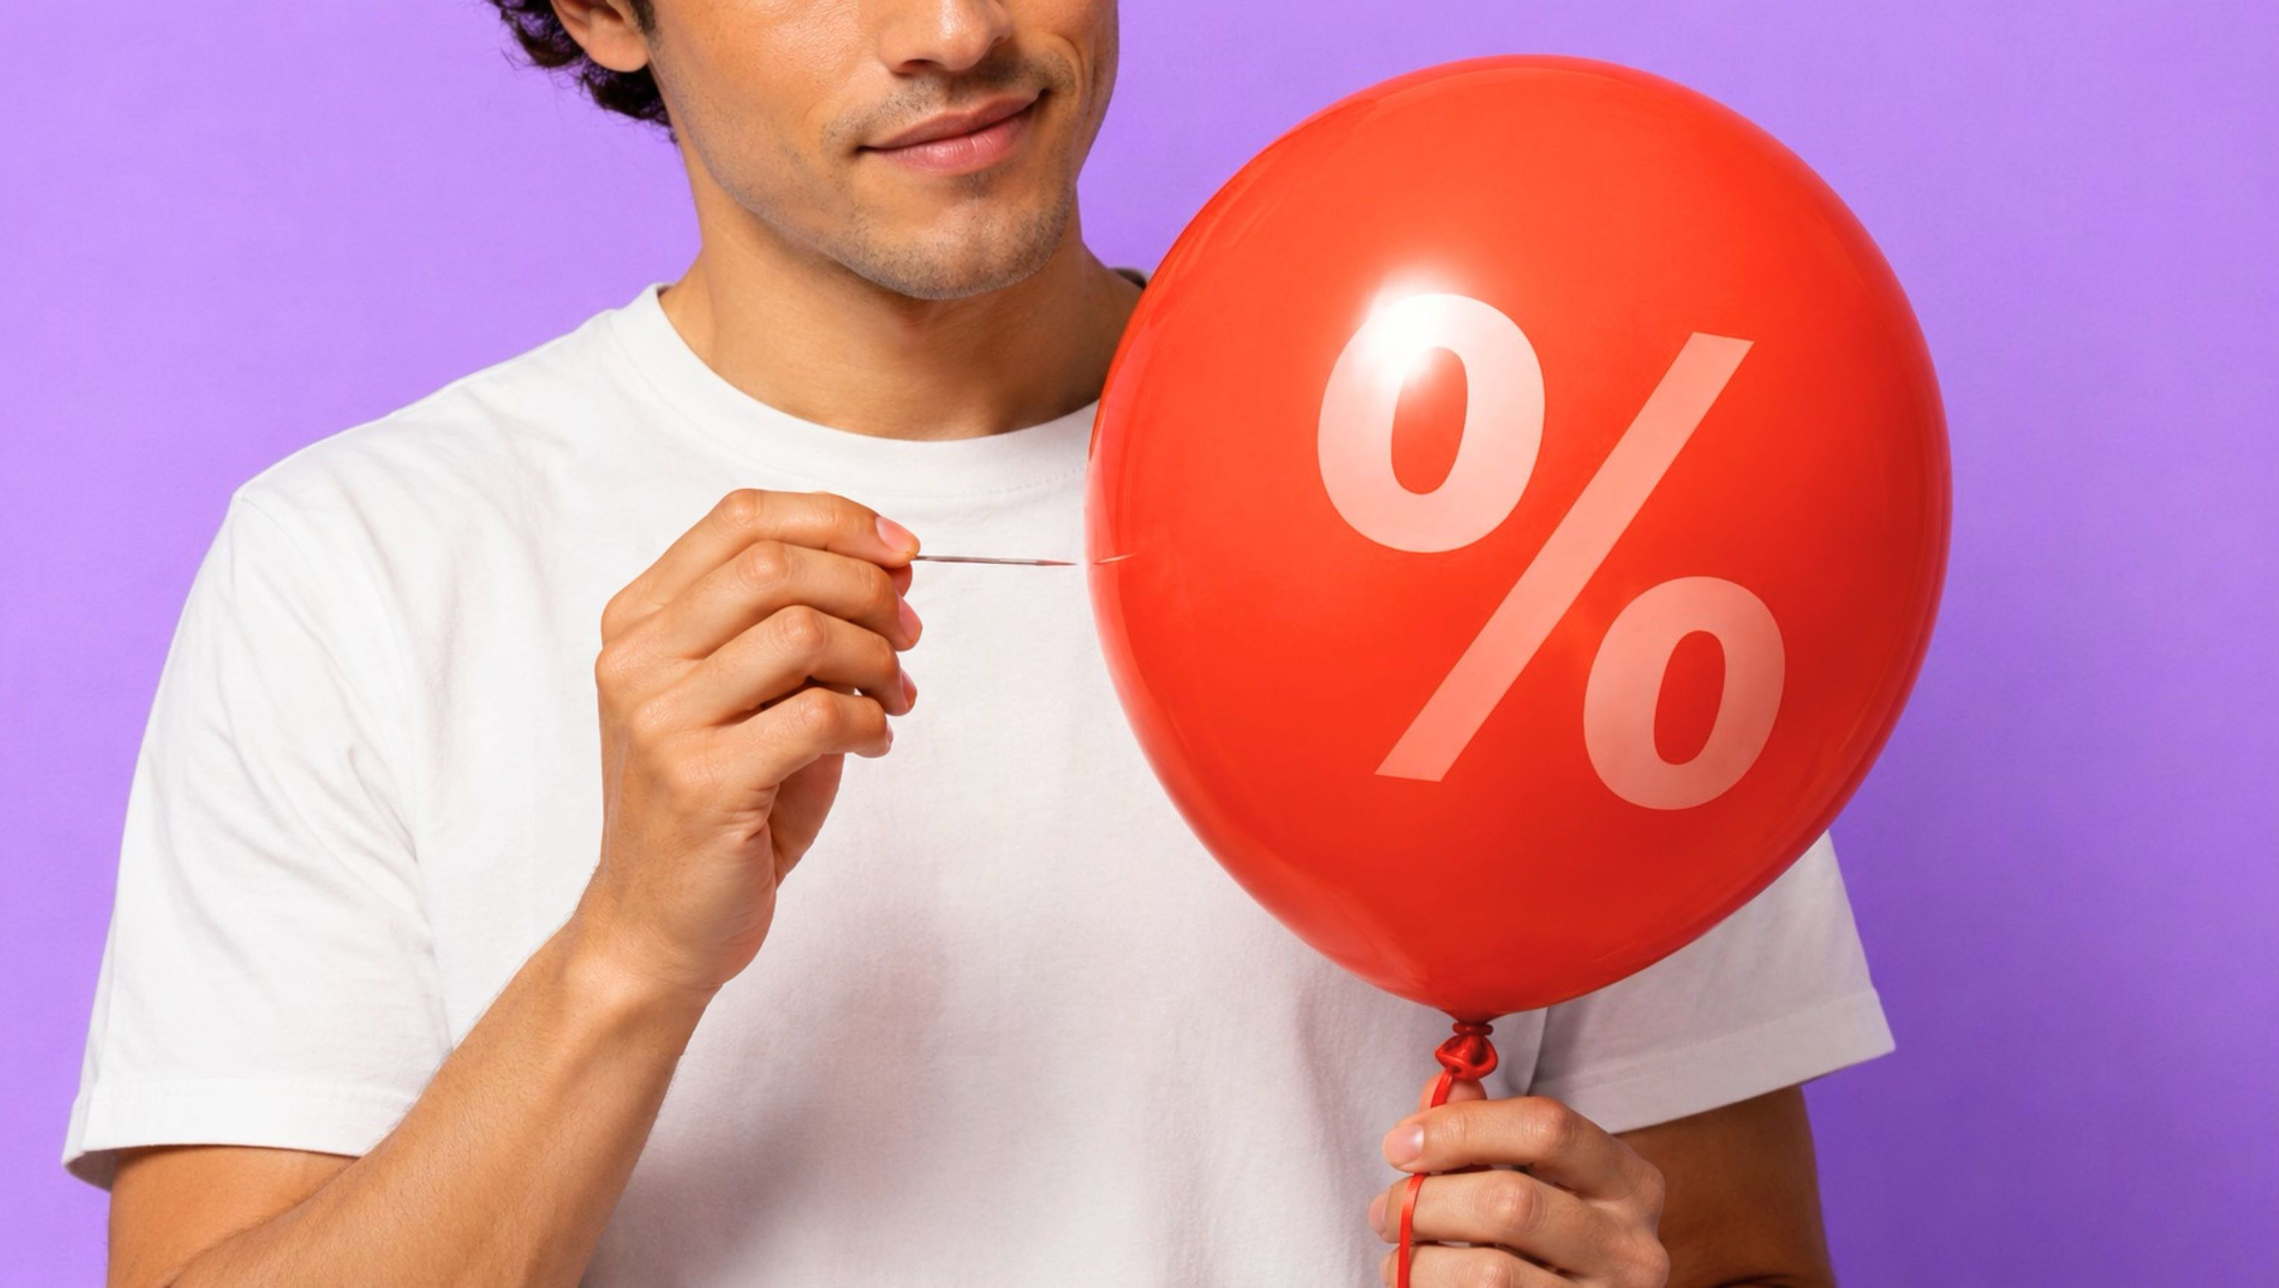
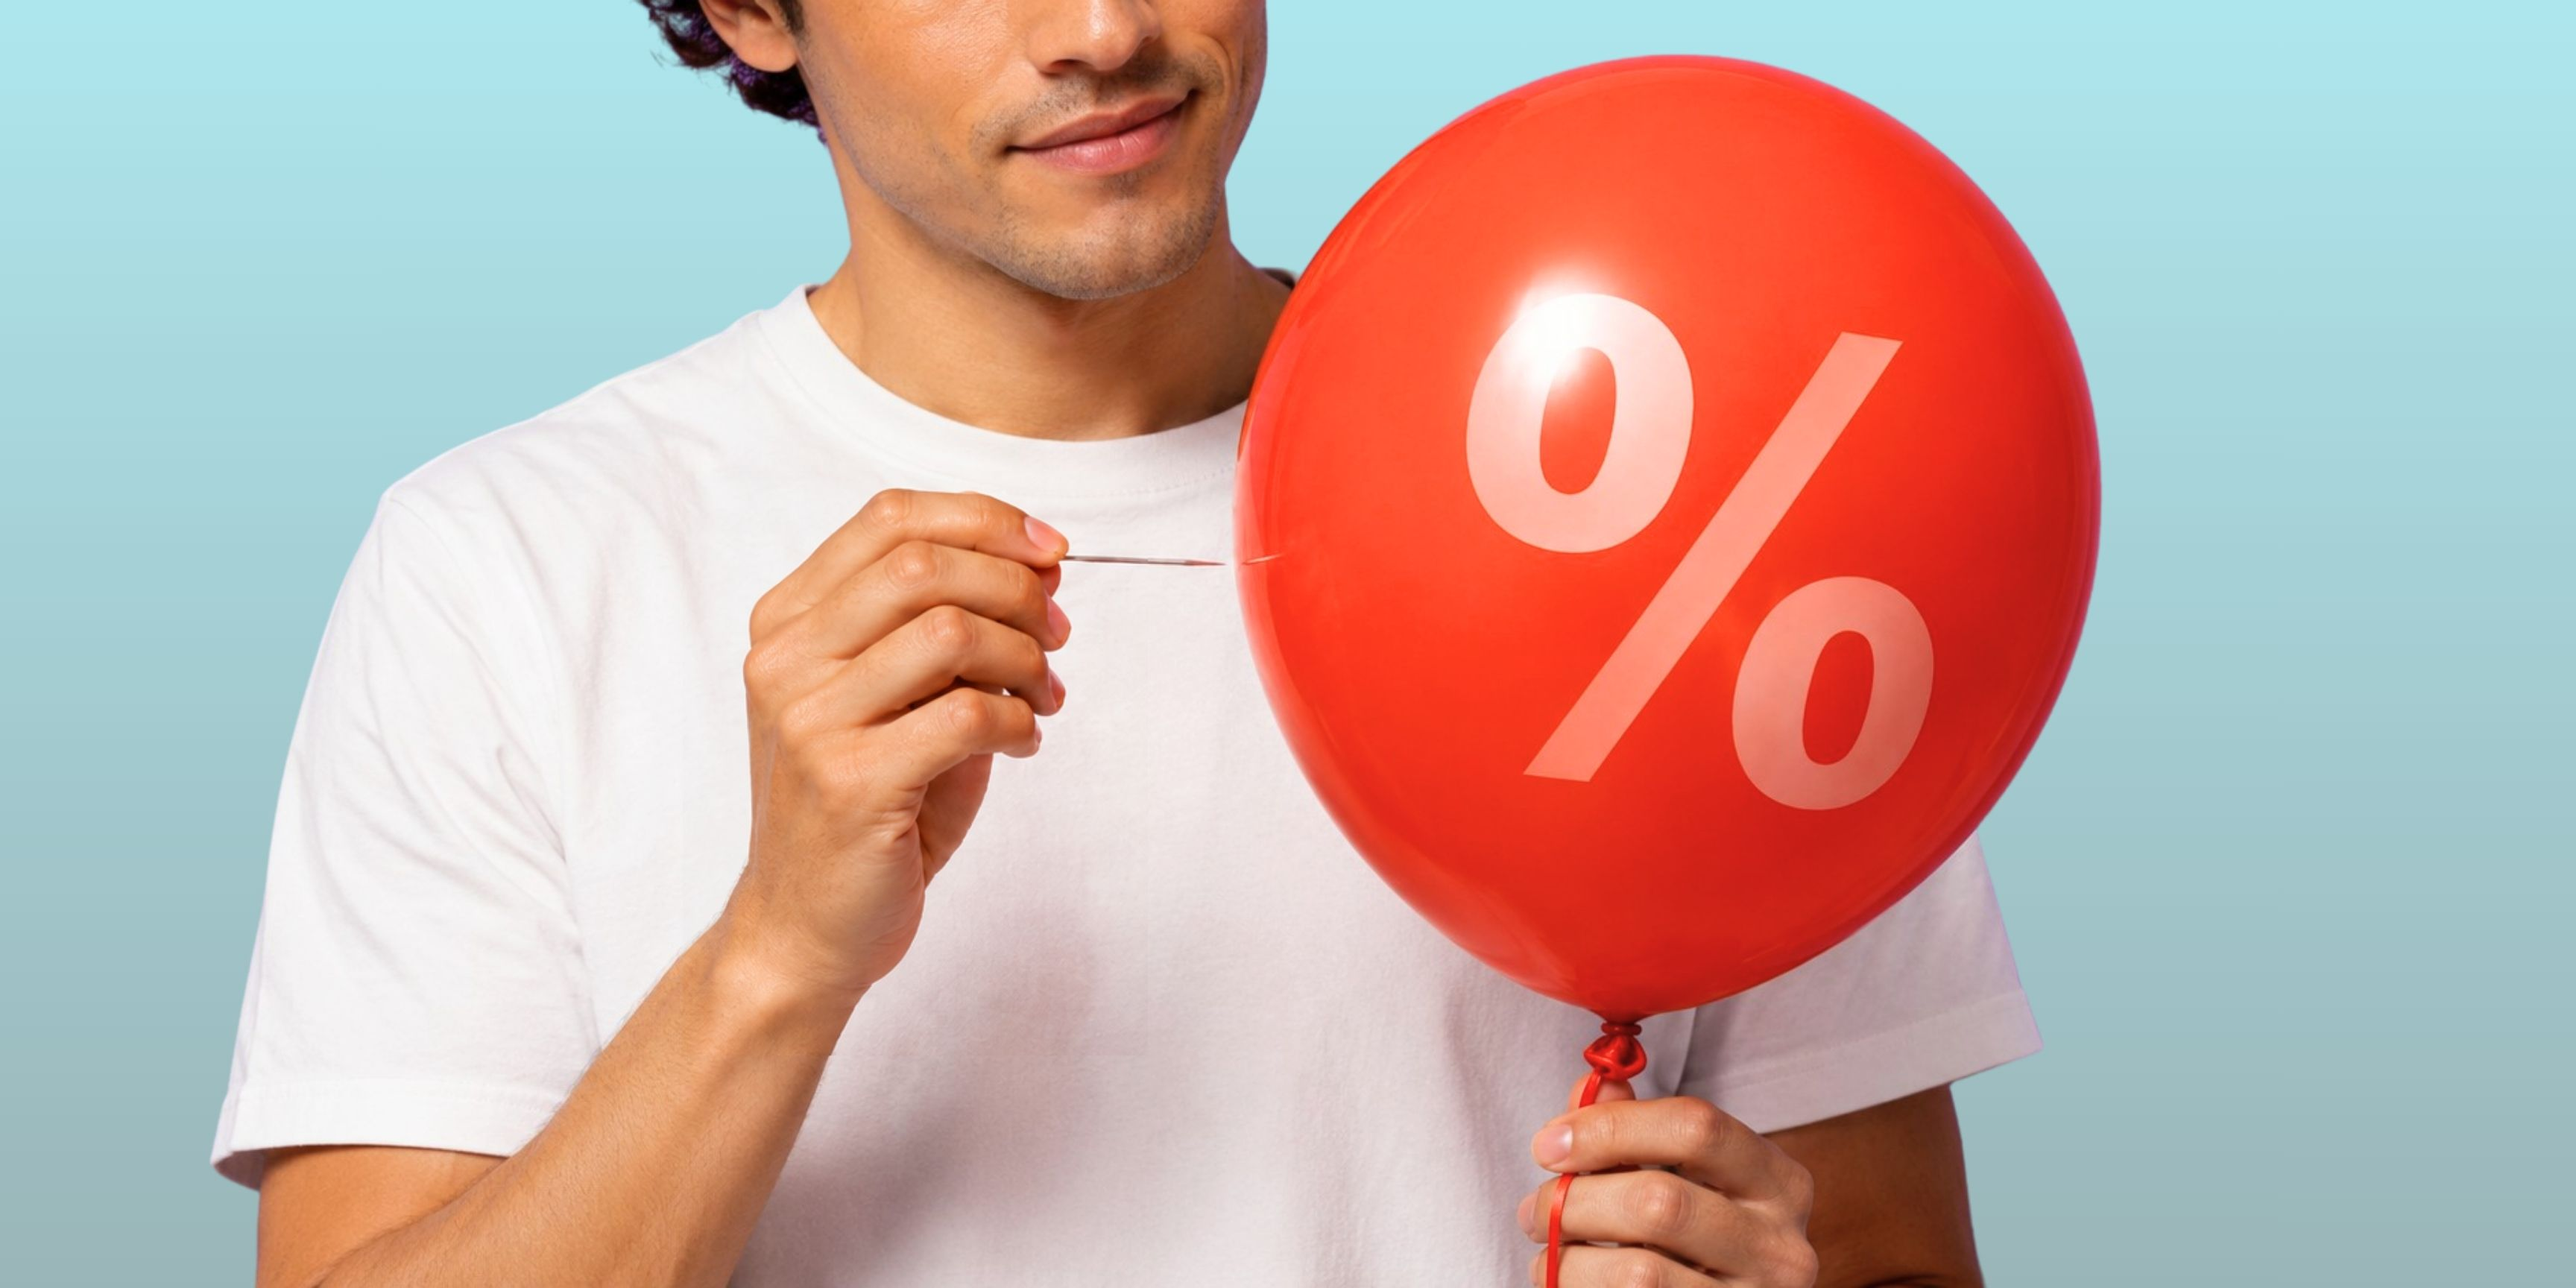
New hero collage photos + swap reasons #2 and #4
- Replaced all six hero collage photos and reasons images 2 & 4 with
  new assets (content overwrite at existing public paths; markup,
  sizes, and layout untouched).

diff --git a/LOGBOOK.md b/LOGBOOK.md
@@ -19,6 +19,22 @@ A running record of every change made to this project, in order. Each entry note
 
 ## Changes
 
+### 2026-06-22 — Reasons section: swap 2nd & 4th photos (requested)
+
+- Replaced the 2nd (`i2` → `public/Reasons2.jpg`) and 4th (`i4` → `public/Reasons4.jpg`) reasons-section images with new files from `~/Downloads/KP Reasons/` (already named `Reasons2.jpg` / `Reasons4.jpg`). Content overwrite at existing paths — no markup, `sizes`, or order changes. Slots 1 and 3 untouched. Old images recoverable from git.
+
+### 2026-06-22 — New hero collage photos (requested)
+
+- Replaced the six hero collage photos with new images from `~/Downloads/Hero/`. Done by **overwriting file contents** at the existing `public/` paths — no markup, `sizes`, or layout-comment changes, so each `is-image-N` slot keeps its tuned positioning and just renders the new photo.
+- Slot → public file ← new download source:
+  - `is-image-1` → `public/Hero3.jpg` ← Downloads `Hero5.jpg`
+  - `is-image-2` → `public/Hero6.jpg` ← Downloads `Hero1.jpg`
+  - `is-image-3` → `public/Hero4.jpg` ← Downloads `Hero2.jpg`
+  - `is-image-4` → `public/Hero2.jpg` ← Downloads `Hero3.jpg`
+  - `is-image-5` → `public/Hero5.jpg` ← Downloads `Hero6.jpg`
+  - `is-image-6` → `public/Hero8.jpg` ← Downloads `Hero4.jpg`
+- Note: the public filenames (Hero2/3/4/5/6/8) were already a non-semantic, scrambled set; kept them as-is to avoid markup churn. Old images remain recoverable from git (`b9b6435`). Downloads also had a `Hero6 (2).jpg` duplicate — used the canonical `Hero6.jpg`.
+
 ### 2026-06-22 — Band padding, banner CTA, reasons reveal (requested)
 
 - **`globals.css`** `.kluppi-band` padding `11rem … 7.5rem` → `10.5rem var(--gutter) 7rem`.
